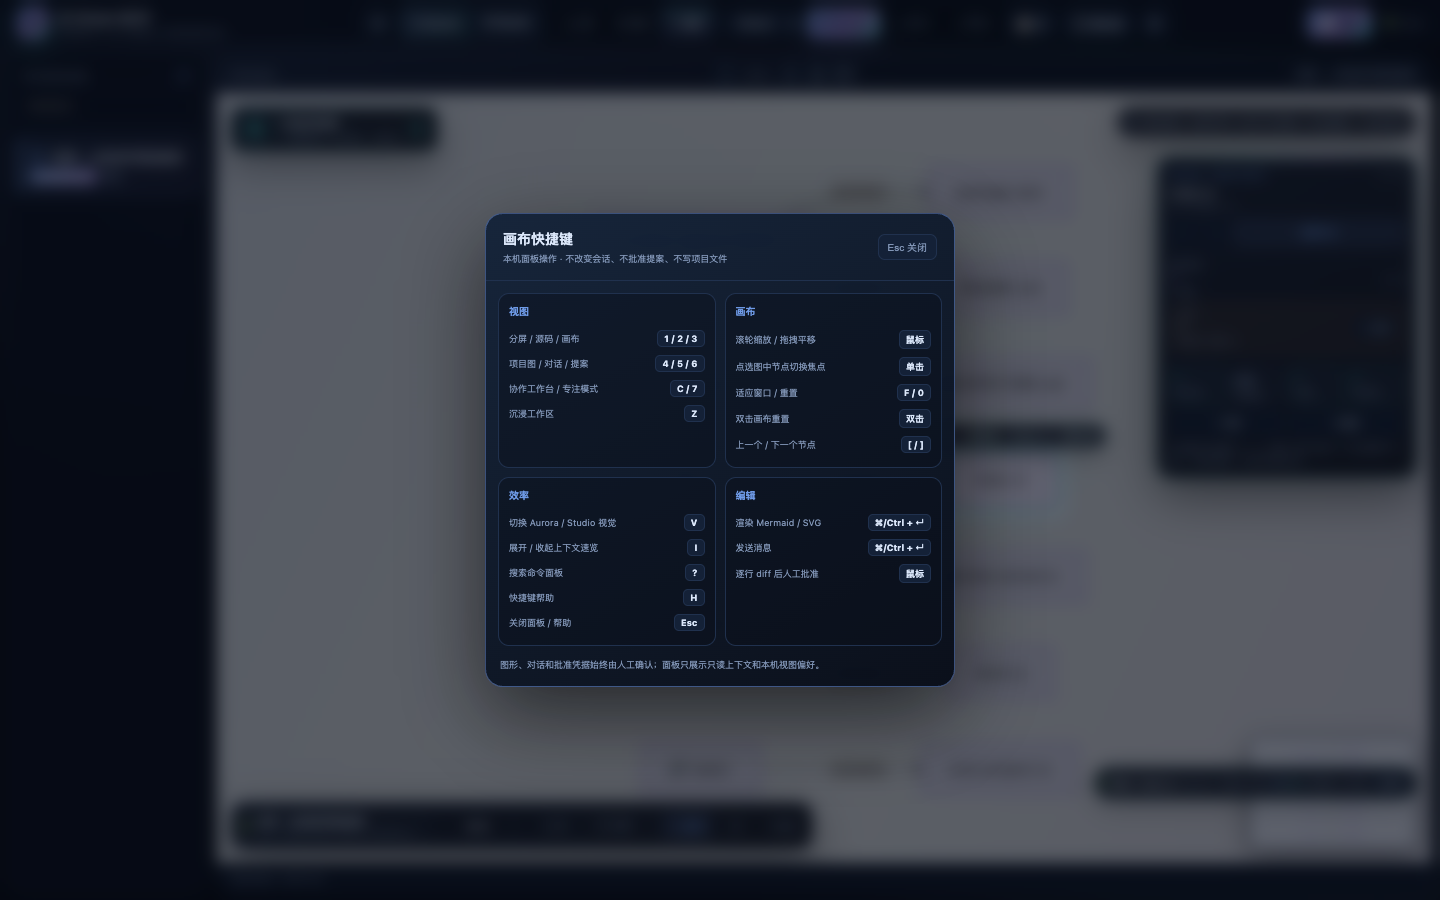
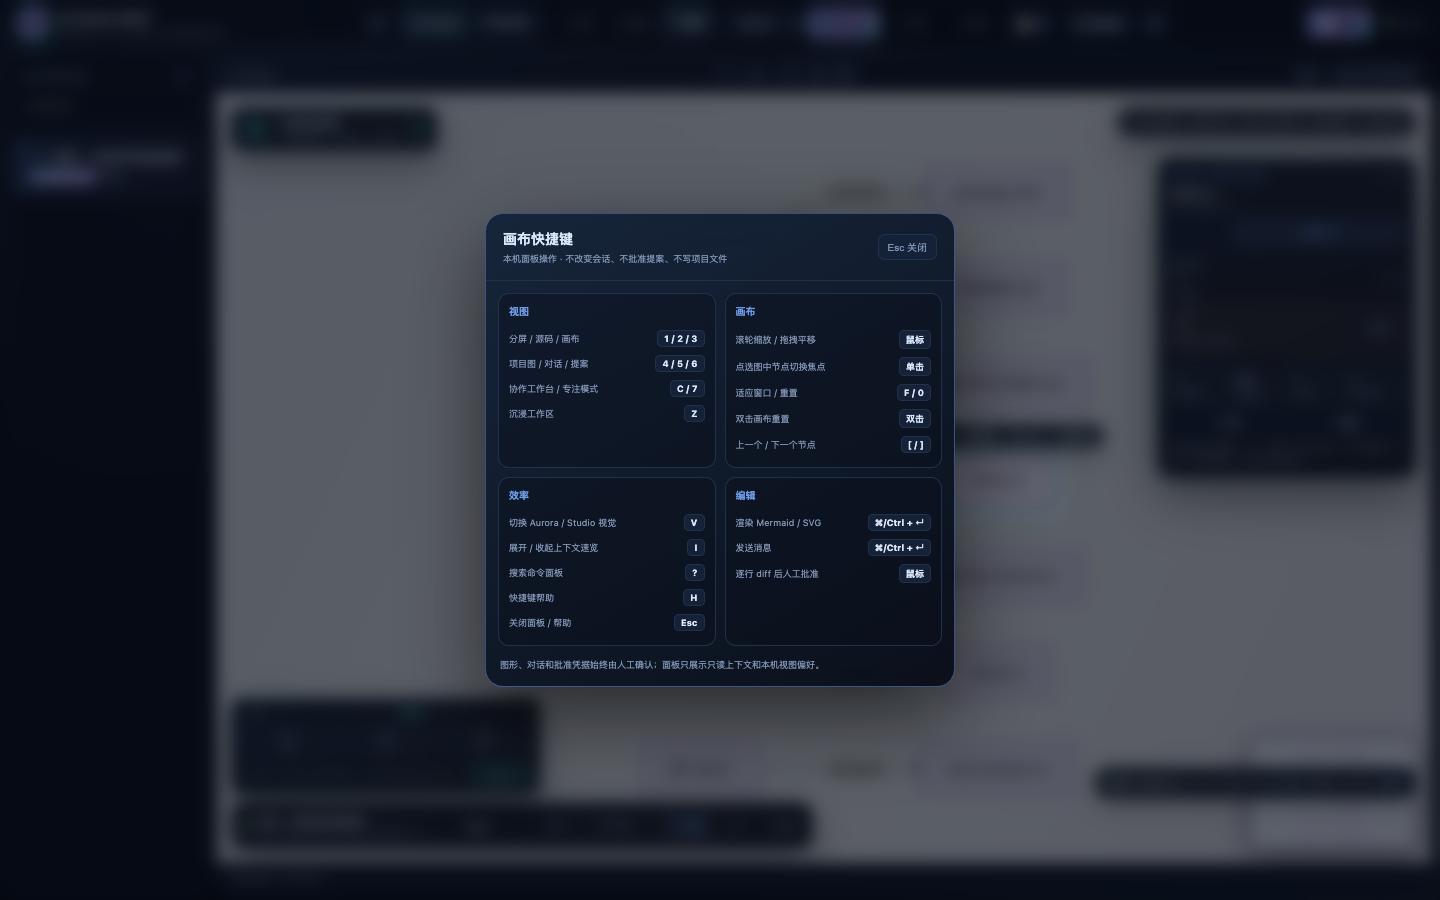
feat: add canvas handoff rail and record green CI

Changed region(s): [[0.1562, 0.7467, 0.4062, 0.9022]]

diff --git a/src/infra/templates/index.html b/src/infra/templates/index.html
@@ -686,6 +686,44 @@
     .canvas-chip::before { content: ''; width: 6px; height: 6px; border-radius: 50%; background: var(--accent); }
     .workspace[data-view="canvas"] .canvas-chip { display: flex; }
     .workspace.welcome #minimap, .workspace.welcome .canvas-chip { display: none; }
+    .collab-handoff {
+      position: absolute; left: 14px; bottom: 68px; z-index: 22; display: none;
+      width: min(310px, calc(100% - 280px)); min-width: 220px; padding: 8px 9px;
+      border: 1px solid rgba(61,219,217,.36); border-radius: 12px;
+      background: linear-gradient(135deg, rgba(12,25,42,.94), rgba(9,14,25,.92));
+      box-shadow: 0 14px 34px rgba(0,0,0,.30), inset 0 1px 0 rgba(255,255,255,.05);
+      backdrop-filter: blur(14px); color: var(--text);
+    }
+    .workspace[data-view="canvas"]:not(.welcome) .collab-handoff { display: block; }
+    .collab-handoff::before {
+      content: ''; position: absolute; left: 12px; right: 12px; top: -1px; height: 2px;
+      background: linear-gradient(90deg, var(--accent3), var(--accent2), transparent); opacity: .8;
+    }
+    .collab-handoff-track { display: grid; grid-template-columns: 1fr auto 1fr; align-items: center; gap: 4px; margin-bottom: 6px; }
+    .collab-handoff-actor { display: flex; align-items: center; gap: 5px; min-width: 0; color: var(--text-muted); font-size: 8px; font-weight: 700; }
+    .collab-handoff-actor strong { overflow: hidden; color: var(--text); font-size: 9px; text-overflow: ellipsis; white-space: nowrap; }
+    .collab-handoff-actor[data-active="true"] strong { color: var(--accent3); }
+    .collab-handoff-actor[data-active="true"] .collab-handoff-dot { border-color: var(--accent3); background: var(--accent3); box-shadow: 0 0 10px rgba(61,219,217,.55); }
+    .collab-handoff-dot { width: 8px; height: 8px; flex: 0 0 8px; border: 1px solid rgba(61,219,217,.5); border-radius: 50%; background: transparent; }
+    .collab-handoff-line { position: relative; height: 1px; min-width: 28px; background: var(--border); }
+    .collab-handoff-line::after { content: '›'; position: absolute; right: -4px; top: -8px; color: var(--accent3); font-size: 12px; font-weight: 800; }
+    .collab-handoff-meta { display: grid; grid-template-columns: repeat(3, minmax(0, 1fr)); gap: 4px; margin-bottom: 6px; }
+    .collab-handoff-meta span { padding: 4px 5px; border: 1px solid var(--border); border-radius: 7px; background: rgba(122,162,247,.06); color: var(--text-muted); font-size: 8px; text-align: center; }
+    .collab-handoff-meta strong { display: block; color: var(--text); font-size: 10px; font-variant-numeric: tabular-nums; }
+    .collab-handoff-next { display: flex; align-items: center; gap: 6px; color: var(--text-muted); font-size: 8px; line-height: 1.4; }
+    .collab-handoff-next span { overflow: hidden; flex: 1; text-overflow: ellipsis; white-space: nowrap; }
+    .collab-handoff-next button { height: 22px; padding: 0 7px; border: 1px solid rgba(61,219,217,.44); border-radius: 7px; background: rgba(61,219,217,.12); color: var(--accent3); font-size: 8px; font-weight: 800; cursor: pointer; white-space: nowrap; }
+    .collab-handoff-next button:hover { background: rgba(61,219,217,.20); }
+    .collab-handoff[data-actor="human"] { border-color: rgba(240,168,104,.44); }
+    .collab-handoff[data-actor="human"]::before { background: linear-gradient(90deg, var(--orange), var(--accent2), transparent); }
+    .collab-handoff[data-actor="human"] .collab-handoff-actor[data-active="true"] strong,
+    .collab-handoff[data-actor="human"] .collab-handoff-line::after { color: var(--orange); }
+    .collab-handoff[data-actor="human"] .collab-handoff-actor[data-active="true"] .collab-handoff-dot { border-color: var(--orange); background: var(--orange); box-shadow: 0 0 10px rgba(240,168,104,.45); }
+    .collab-handoff[data-actor="human"] .collab-handoff-next button { border-color: rgba(240,168,104,.46); background: rgba(240,168,104,.12); color: var(--orange); }
+    body.visual-studio .collab-handoff, body.theme-light .collab-handoff { background: rgba(255,255,255,.96); border-color: rgba(80,110,165,.34); box-shadow: 0 12px 28px rgba(38,54,84,.16); }
+    body.zen-workspace .collab-handoff { bottom: 62px; left: 12px; }
+    @media (max-width: 860px) { .collab-handoff { width: 245px; min-width: 0; } }
+    @media (max-width: 620px) { .workspace[data-view="canvas"]:not(.welcome) .collab-handoff { display: none; } }
     .canvas-focus-ring {
       position: absolute; z-index: 18; display: none; pointer-events: none;
       border: 1.5px solid var(--accent2); border-radius: 12px;
@@ -1670,6 +1708,19 @@
             <button type="button" id="btnCanvasHelp" title="快捷键与画布手势 (H)">? 帮助</button>
           </div>
           <div class="canvas-chip">滚轮缩放 · 拖拽平移 · 单击节点聚焦 · 双击重置 · F 适应窗口</div>
+          <section class="collab-handoff" id="collabHandoff" data-actor="none" aria-label="只读人机交接航线">
+            <div class="collab-handoff-track">
+              <span class="collab-handoff-actor" data-handoff-actor="human"><span class="collab-handoff-dot" aria-hidden="true"></span><strong>人</strong></span>
+              <span class="collab-handoff-line" aria-hidden="true"></span>
+              <span class="collab-handoff-actor" data-handoff-actor="ai"><span class="collab-handoff-dot" aria-hidden="true"></span><strong>AI</strong></span>
+            </div>
+            <div class="collab-handoff-meta">
+              <span>待 AI<strong id="handoffMessages">0</strong></span>
+              <span>待审<strong id="handoffProposals">0</strong></span>
+              <span>批注<strong id="handoffAnnotations">0</strong></span>
+            </div>
+            <div class="collab-handoff-next"><span id="handoffNext">读取共享上下文，等待下一步。</span><button type="button" id="btnHandoffOpen" aria-label="打开完整协作工作台">↔ 工作台 · C</button></div>
+          </section>
           <button type="button" class="collab-pulse" id="btnCollabPulse" data-state="ready" aria-expanded="false" aria-controls="collabPulseDetail" title="展开只读协作速览；再次点击按钮可收起" aria-label="展开只读协作速览">
             <span class="collab-pulse-orbit" aria-hidden="true"></span>
             <span class="collab-pulse-copy"><strong>人机协作脉搏</strong><span id="collabPulseHint">点击打开共享上下文 · C</span></span>
@@ -2477,6 +2528,7 @@ $('#btnCollabPulseOpen').addEventListener('click', () => {
   setCollabPulseDetailOpen(false);
   openCollab();
 });
+$('#btnHandoffOpen').addEventListener('click', openCollab);
 $('#btnCanvasCommands').addEventListener('click', () => openCommandPalette());
 $('#btnCanvasHelp').addEventListener('click', () => openShortcutDialog());
 $('#btnCanvasPrevNode').addEventListener('click', () => stepCanvasFocus(-1));
@@ -3495,9 +3547,30 @@ function renderCollabPulse() {
   setMetric('#collabPulseProposals', pendingProposals);
   setMetric('#collabPulseAnnotations', openAnnotations);
   setMetric('#collabPulseNext', nextAction || (pendingProposals ? '展开完整逐行 diff，再由人工决定是否批准。' : '打开工作台，继续编辑结构图或表达意图。'));
+  renderCollabHandoff({ pendingMessages, pendingProposals, openAnnotations, nextAction, nextActor: diagnostics?.activity?.nextActor });
   if (!$('#welcomeCard')?.hidden) {
     renderWelcomeJourney({ pendingProposals, attention, hasGraph: Boolean(graph?.nodes?.length) });
   }
+}
+
+function renderCollabHandoff({ pendingMessages, pendingProposals, openAnnotations, nextAction, nextActor }) {
+  const handoff = $('#collabHandoff');
+  if (!handoff) return;
+  const actor = nextActor === 'human' || nextActor === 'ai'
+    ? nextActor
+    : pendingProposals > 0 || openAnnotations > 0 ? 'human' : pendingMessages > 0 ? 'ai' : 'none';
+  handoff.dataset.actor = actor;
+  for (const marker of handoff.querySelectorAll('[data-handoff-actor]')) {
+    marker.dataset.active = String(marker.dataset.handoffActor === actor);
+  }
+  const setHandoffMetric = (selector, value) => { const target = $(selector); if (target) target.textContent = String(value); };
+  setHandoffMetric('#handoffMessages', pendingMessages);
+  setHandoffMetric('#handoffProposals', pendingProposals);
+  setHandoffMetric('#handoffAnnotations', openAnnotations);
+  const label = actor === 'human' ? '下一棒 · 人' : actor === 'ai' ? '下一棒 · AI' : '下一棒 · 就绪';
+  const hint = nextAction || (pendingProposals ? '展开完整逐行 diff，再由人工决定是否批准。' : '打开工作台，继续编辑结构图或表达意图。');
+  $('#handoffNext').textContent = `${label} · ${hint}`;
+  $('#handoffNext').title = '只读派生自 session / proposals / diagnostics；不发送消息、不批准提案、不写项目文件。';
 }
 
 function renderWelcomeJourney({ pendingProposals, attention, hasGraph }) {
@@ -5562,6 +5635,7 @@ syncWelcomeState();
 syncAppearanceControls();
 renderInspector();
 renderWelcomeJourney({ pendingProposals: 0, attention: 0, hasGraph: false });
+renderCollabHandoff({ pendingMessages: 0, pendingProposals: 0, openAnnotations: 0, nextAction: '', nextActor: 'none' });
 loadCollabPulse();
 
 // Restore last viewed diagram (URL path takes priority)

diff --git a/README.en.md b/README.en.md
@@ -53,7 +53,7 @@ If Chrome is outside Puppeteer's cache, set `PUPPETEER_EXECUTABLE_PATH`. CI and 
 
 The local preview panel ships with two distinct visual systems. **Aurora** is the immersive default: a luminous top border, cyan/violet accents, glass cards, and a live status ribbon make the shared canvas feel alive. **Studio** is a high-readability light system for long review sessions. Switch with the header segmented control, `V`, the appearance popover, or the command palette; the preference stays in local browser storage. Once a graph exists, the top-left **collaboration pulse** reads only the current session and summarizes pending proposals, messages waiting for AI, open annotations, and diagnostic signals. Expanding it reveals a compact read-only metric panel with counts, a derived next action, and one button that opens the full shared workspace; `Esc` or an outside click closes it. The ribbon also shows a brief live-sync progress state. `I` opens a read-only live inspector for the focused object, source evidence, open discussions, graph revision, review readiness, and safe next actions. Its actions only open existing views or copy context; they never approve proposals or write project files. Pending proposal cards now show a visible **line diff → impact scope → human approval** review rail, a `write gate closed` notice, status-colored top edges, and a readiness glow; completing the rail only confirms that review material was loaded and never grants write authority. Background sync reuses proposal DOM by signature and defers refreshes during pointer interaction, so an approval button cannot be detached mid-click.
 
-Press `Z` to enter the immersive workspace: the header, diagram library, pane headers, and status bar recede so the project graph, focus card, and floating canvas controls stay visible. `Z`, `Esc`, or the top exit badge restores the full workspace. The appearance popover stores the visual system, theme, palette, density, preview background, and immersive preference in local browser storage only. These are presentation preferences: they do not change `focus` / `viewport`, session state, approval receipts, or the project-write gate. All screenshots, including the reproducible Studio view and immersive workspace, are generated by `npm run ui:shots`.
+Press `Z` to enter the immersive workspace: the header, diagram library, pane headers, and status bar recede so the project graph, focus card, and floating canvas controls stay visible. `Z`, `Esc`, or the top exit badge restores the full workspace. The appearance popover stores the visual system, theme, palette, density, preview background, and immersive preference in local browser storage only. These are presentation preferences: they do not change `focus` / `viewport`, session state, approval receipts, or the project-write gate. All screenshots, including the reproducible Studio view and immersive workspace, are generated by `npm run ui:shots`. In canvas view, the lower-left **handoff rail** derives a human ⇄ AI next-actor marker, three read-only counters, and a bounded next action from the same session snapshot; its button only opens the existing workspace and never sends a message, approves a proposal, or writes project files.
 
 ![First-run collaboration loop](https://raw.githubusercontent.com/2648782102/ai-draw-mcp/master/docs/welcome-panel.png)
 

diff --git a/CHANGELOG.md b/CHANGELOG.md
@@ -8,6 +8,10 @@ The format is based on [Keep a Changelog](https://keepachangelog.com/en/1.1.0/),
 
 ### Added
 
+- 画布人机交接航线（2026-11-06 16:15 CST）：全屏画布视图左下角新增常驻只读交接面板，用 人 ⇄ AI 轨道高亮既有诊断里的 `nextActor`，三格显示等待 AI 的消息、待审提案与开放批注，并压缩展示下一步建议；「↔ 工作台 · C」按钮只打开既有协作面板。状态全部从既有 session / proposals / diagnostics 派生，不发送消息、不创建/批准提案、不签发凭据、不写项目文件；浅色、Studio、沉浸与窄屏布局都有适配，中英文 README、浏览器回归、离线守卫与可复现截图同步覆盖。
+
+- CI 恢复证据（2026-11-06 16:05 CST）：`ad61a1c` 的 GitHub Actions CI `42185011140` / #130 在 Node 20/22/24 三档全部 success（jobs `127783169454` / `127783169129` / `127783169479`）；此前的 #127–#129 暴露 pointer 媒体查询与提案卡片 detached-node 竞态，现已由可复用 DOM、交互刷新窗口和稳定浏览器回归替代。本地 `npm run check` 为 25 个测试文件 / 81 个测试、276 文件 dry-run，`npm run ui:shots` 的八张截图全部重新生成并视觉复核；版本化治理/发布文档同步记录。公开 GitHub About/topics 仍因缺少管理型 `GH_TOKEN` 保持漂移，未 retag、未改写已发布 Release、未自动发 npm 包。
+
 - 审阅闸门与稳定交互（2026-11-06 16:05 CST）：待审提案卡新增醒目的「逐行 diff → 影响范围 → 人工确认」三步进度轨道、进度条、状态色顶边与「写入闸门未开启」提示；影响摘要与逐行 diff 加载完成后逐步点亮到 100%，但就绪只说明材料已核对，批准仍由人工点击、仍只签发一次性确认号、仍不自动写项目文件。提案列表改为按稳定签名复用 DOM，并在协作工作台指针交互、弹层可见和确认号卡片关闭后的短暂窗口内统一延后后台刷新；事件委托和旧卡片复用避免 WebSocket / 保存图形后的刷新把正在点击的 `[data-approve]` 节点从文档中摘除，修复 Node 24 CI 的 detached-node 竞态。所有状态只从既有只读 proposals / impact / diff 派生，不新增 MCP 工具、不改 version 1 协议、不持久化审阅偏好、不签发凭据、不批准提案或写项目文件；中英文 README、浏览器回归、离线守卫与可复现截图同步覆盖。
 
 - CI 前端兼容性修复（2026-11-06 16:00 CST）：`ae55844` 的 GitHub Actions Node 22 面板回归暴露 Aurora 鼠标光斑监听器使用 `(pointer: fine)` 媒体查询，而 headless Chrome 在 Linux runner 上不报告精细指针，导致 `data-pointer` 断言失败、同 workflow 的 Node 20/24 作业被连带取消。改为按 `pointermove.pointerType` 排除触摸并始终注册精细视觉反馈；仍遵守「减少动态效果」偏好，且不改变本机偏好、会话协议或写入闸门。浏览器回归与离线守卫保持覆盖，后续 CI 需重新验证 Node 20/22/24 三档。

diff --git a/docs/LAUNCH_KIT.md b/docs/LAUNCH_KIT.md
@@ -148,6 +148,7 @@ AI Draw MCP 的预览面板现在有两套视觉系统：默认 Aurora 是带渐
 - 前端维护增量（14:20 CST）：对象焦点卡现在显示绑定批注、开放讨论与失锚状态，并能一键定位到对话工作台；按 `Z` 可进入沉浸工作区，让顶栏/图表库/状态栏退场，只留下结构图、对象上下文、浮动操作条与人工确认边界。外观可在「鲜明 / 静谧」间切换，尊重系统「减少动态效果」与「更高对比度」偏好。这些都是本机只读视图偏好，不新增 MCP 工具、不改 version 1 协议、不签发凭据、不授权项目写入；全部截图由 `npm run ui:shots` 用临时会话可复现生成。短帖文案见「前端迭代短帖」，不改写已发布 Release notes。
 - 双视觉维护增量（14:45 CST）：新增默认 Aurora 与可切换 Studio，`V` / 顶栏分段控件 / 外观面板 / 命令面板统一切换；`I` 打开只读上下文速览，汇总焦点对象、证据、对话、图修订与审阅就绪。`npm run ui:shots` 现在同时产出 Aurora 与 `docs/studio-workspace-panel.png` 两张可对比截图，浏览器回归覆盖 class、活动态、快捷键和速览动作数量。预览服务优先读取源码模板且禁用 HTML 缓存，避免开发态改动被旧 `dist` 副本遮住；仍不新增工具、不改协议、不签发凭据或写入项目文件。
 - 双视觉验证证据（14:52 CST）：`415d817` 的本地 `npm run check` 全过（25 个测试文件 / 81 个测试、276 文件 dry-run）；CI `42176894532` / #125 在 Node 20/22/24 全绿，`Maintain GitHub metadata` `42176894528` / #17 成功。公开 GitHub description/topics 仍为漂移状态，apply 步骤继续等待管理型 `GH_TOKEN`；不 retag、不改写已发布 Release、不自动发布 npm 包。
+- 审阅闸门与 CI 恢复证据（16:05 CST）：`ad61a1c` 把待审提案重做成带「逐行 diff → 影响范围 → 人工确认」进度轨道、写入闸门提示、状态渐变顶边与就绪光晕的审阅卡；后台刷新按提案签名复用 DOM，并在交互/弹层期间延后，修复 Node 24 批准按钮 detached-node 竞态。CI `42185011140` / #130 在 Node 20/22/24 全绿（jobs `127783169454` / `127783169129` / `127783169479`），本地 25 个测试文件 / 81 个测试、276 文件 dry-run 与八张可复现截图全部通过。公开 GitHub description/topics 仍为漂移状态，继续等待管理型 `GH_TOKEN`；不 retag、不改写已发布 Release、不自动发布 npm 包。
 
 - 开头：展示「AI 画架构图」之后的真实痛点——图不能把人的意图安全带回代码。
 - 演示：用 `examples/collab-demo.mjs` 录一个 60 秒闭环，重点拍节点改名、批注、diff、批准确认号、文件变化。

diff --git a/docs/GOVERNANCE.md b/docs/GOVERNANCE.md
@@ -81,6 +81,8 @@ Final CI verification at 08:49 CST: CI run [42137916943](https://github.com/2648
 
 Verification for `ecc8e47` at 08:54 CST: CI run [42139816006](https://github.com/2648782102/ai-draw-mcp/actions/runs/42139816006) (#91) is green on Node 20, 22, and 24 with jobs `127637049248`, `127637049494`, and `127637049357`. Metadata workflow [42139816004](https://github.com/2648782102/ai-draw-mcp/actions/runs/42139816004) (#15), job `127637049289`, was triggered by the `docs/LAUNCH_KIT.md` path change and remains a read-only drift check: `Require an administration-capable token` and `Apply repository metadata` were both skipped. This commit only records the #87–#90 / #14 evidence and guards it in offline checks; it does not change the 26-tool surface, version 1 JSON contracts, approval gates, dependency lockfile, tags, published Releases, or npm publication boundary. The public repository API still reports `description: null`, `homepage: null`, and `topics: []`; About/topics convergence still requires the maintainer to provide an administration-capable `GH_TOKEN`. This is a completed workflow, not a metadata repair.
 
+Verification for `ad61a1c` at 16:05 CST: CI run [42185011140](https://github.com/2648782102/ai-draw-mcp/actions/runs/42185011140) (#130) is green on Node 20, 22, and 24 with jobs `127783169454`, `127783169129`, and `127783169479`. The local `npm run check` passes 25 test files / 81 tests and a 276-file dry-run package, and `npm run ui:shots` regenerated and visually verified all eight reproducible screenshots. This frontend iteration adds a visible pending-proposal review rail and write-gate notice, reuses proposal DOM by stable signature, and defers background refreshes during pointer interactions and overlays; it repairs the detached approval-button race seen in the previous Node 24 run without changing the 26-tool surface, version 1 contracts, approval receipts, project-write gate, tags, published Releases, or npm publication boundary. Earlier CI runs #127–#129 exposed pointer media-query and detached-node race conditions and are superseded by #130. GitHub About/topics drift remains blocked on an administration-capable `GH_TOKEN`; the versioned metadata workflow still records the drift rather than silently rewriting repository settings.
+
 ## Decision process
 
 Protocol and safety changes need an ADR, tests, and updates to `docs/ARCHITECTURE.md`, `AGENTS.md`, and `SECURITY.md`. Product-direction changes need a roadmap update and, when user-facing, an Issue #8 note. Dependency upgrades follow [`DEPENDENCY_MAINTENANCE.md`](DEPENDENCY_MAINTENANCE.md); major versions are reviewed individually rather than merged together.

diff --git a/README.md b/README.md
@@ -55,7 +55,7 @@
 
 ![AI Draw MCP 画布工作区](https://raw.githubusercontent.com/2648782102/ai-draw-mcp/master/docs/canvas-workbench-panel.png)
 
-画布工作区截图由 `npm run ui:shots` 使用临时示例项目可复现生成：AI 扫描出的目录与文件先成为一张真实结构图，人类把它切到全屏画布视图，再用浮动操作条控制视口与协作入口。截图里的示例节点、对话和提案只存在于临时会话，不代表仓库文件被自动修改。
+画布工作区截图由 `npm run ui:shots` 使用临时示例项目可复现生成：AI 扫描出的目录与文件先成为一张真实结构图，人类把它切到全屏画布视图，再用浮动操作条控制视口与协作入口。画布左下角新增常驻「人机交接航线」：用 人 ⇄ AI 轨道标出诊断里的下一棒，三个只读计数格显示等待 AI 的消息、待审提案和开放批注，并把下一步诊断压缩成一行；「工作台」按钮只打开既有协作面板，不发送消息、不批准提案、不写项目文件。截图里的示例节点、对话和提案只存在于临时会话，不代表仓库文件被自动修改。
 
 画布右上角的「对象焦点」卡显示当前节点名称、序号、路径、图修订、直接关联对象数与绑定批注状态；可直接单击结构图上的节点，或用 `← / →` 按钮、`[ / ]`、命令面板切换。「关联」沿真实连线跳到相邻节点，「复制」生成不含凭据或绝对路径的只读提示，「对话」定位到当前对象绑定的批注与下一棒。当前节点会显示紫色描边、聚光罩、静态光晕与跟随标签，并随缩放/平移实时跟随。切换同步既有只读 focus 上下文，让人和 AI 看到同一个对象，但不会签发凭据、创建提案或写项目文件。点击「查看节点」会进入协作工作台的项目图栏。
 
